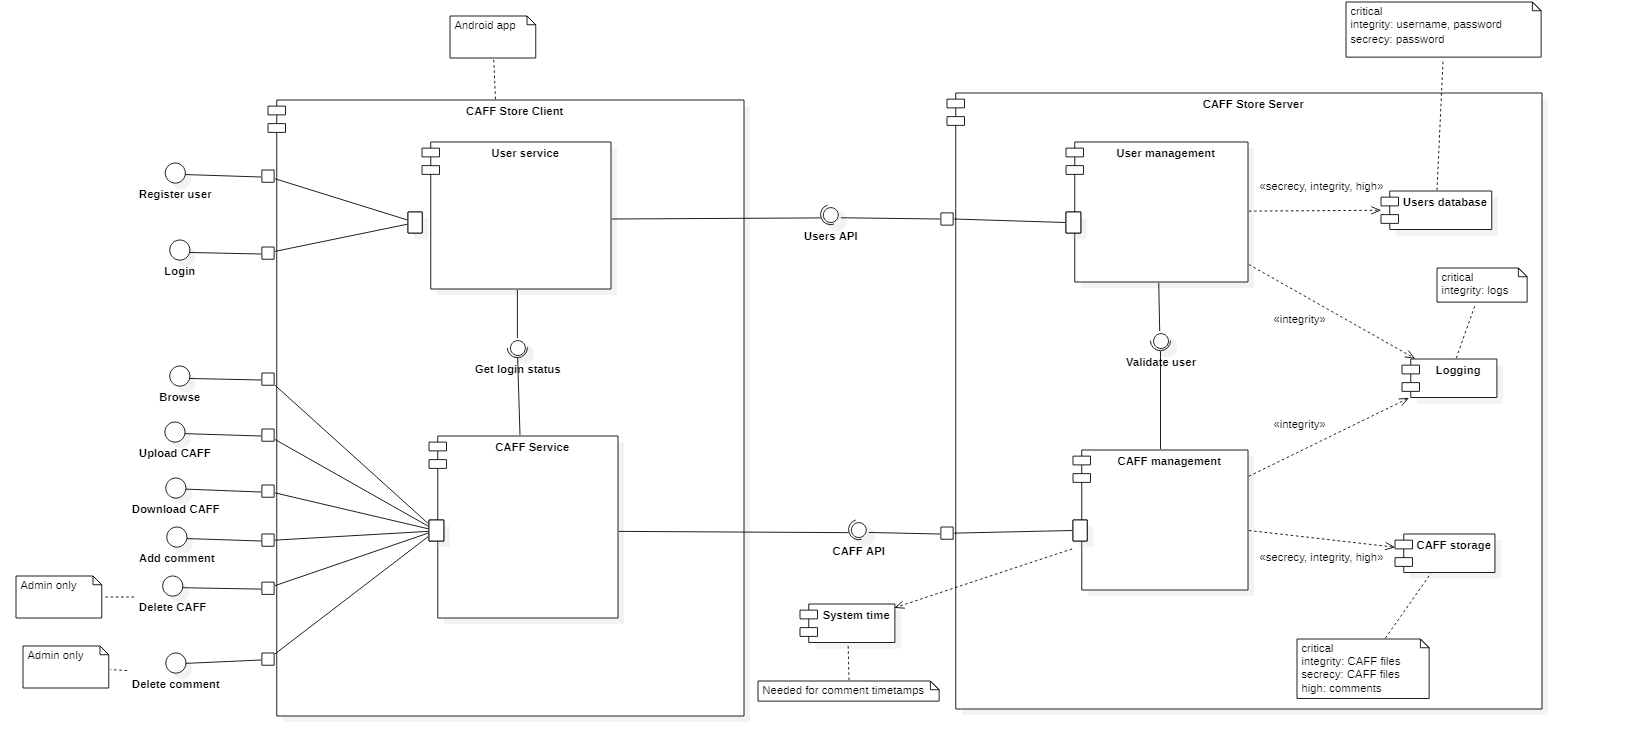
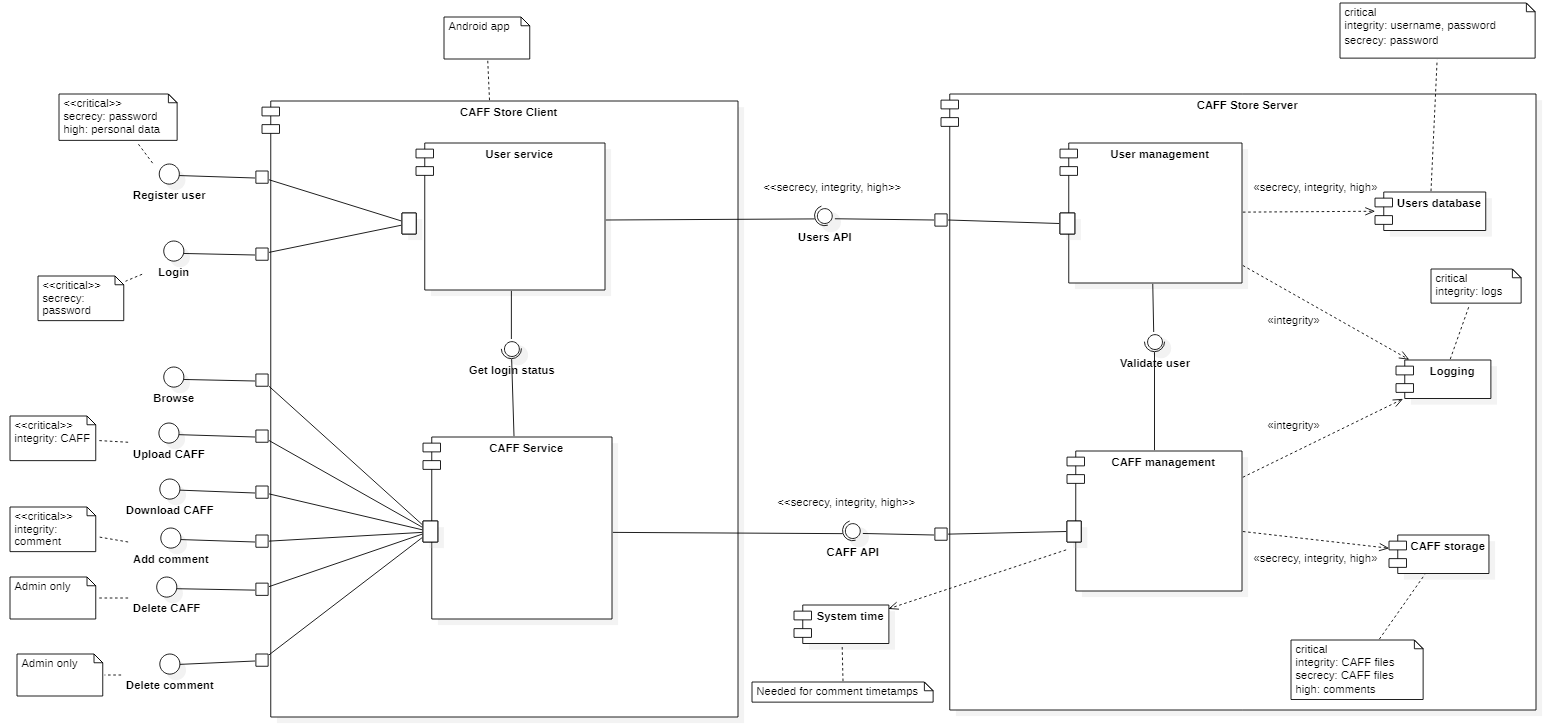
Update specification and diagrams

diff --git a/docs/Specification.md b/docs/Specification.md
@@ -75,10 +75,10 @@ A lehetséges veszélyforrások rendszerezéséhez a STRIDE keretrendszert haszn
 
 Veszélyforrás | Példa 
 ------------ | -------------
-Megszemélyesítés | Egy felhasználó valaki más által megvásárolt képet akar letölteni.
+Megszemélyesítés | Egy felhasználó valaki más nevében akar kommentet közzétenni.
 Hamisítás | Valaki jogtalanul módosítja egy másik felhasználó CAFF képét.
 Tevékenység letagadása | Egy felhasználó megpróbálja letagadni az általa írt kommentet. 
-Információ szivárgás | Egy felhasználó megszerzi egy másik felhasználó jelszavát. Egy felhasználó vásárlás nélkül jut hozzá egy képhez. 
+Információ szivárgás | Egy felhasználó megszerzi egy másik felhasználó jelszavát. Egy felhasználó bejelentkezés nélkül jut hozzá egy képhez. 
 Szolgáltatás megtagadás | Egy felhasználó olyan sok képet akar letölteni, hogy összeomlik a rendszer.
 Jogosultsági szint emelése | Egy normál felhasználó illetéktelenül adminisztrátori jogokhoz jut.
 
